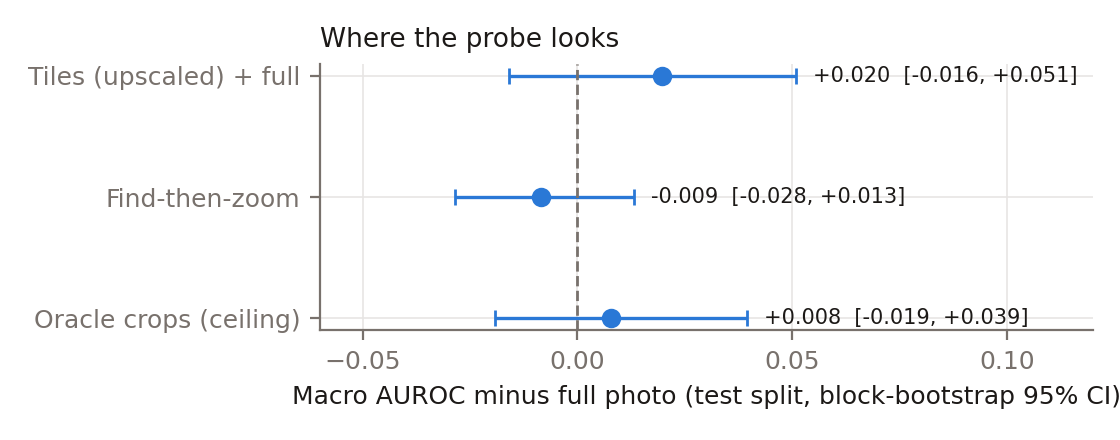
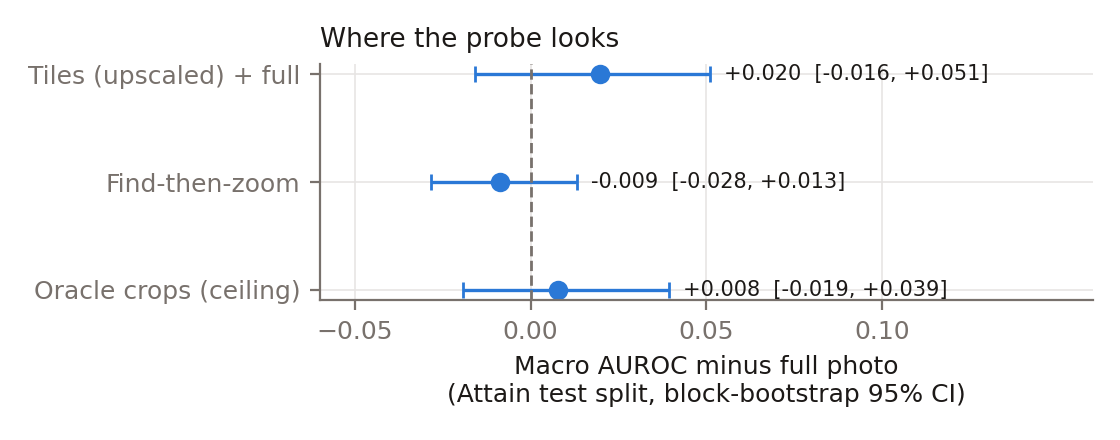
Paper figures in one readable style: redraw 6.8a/b, fix clipped 6.9 label; CLAUDE.md next steps current

diff --git a/scripts/generate_paper_figures.py b/scripts/generate_paper_figures.py
@@ -156,6 +156,62 @@ def fig_first_label():
     save(fig, "fig_6_7_first_label.png")
 
 
+PROBE_CLASSES = ["Linear crack", "Alligator crack", "Pothole", "Raveling", "Weathering",
+                 "Patch and utility cut"]
+
+
+def _short(c: str) -> str:
+    return c.replace(" and utility cut", "")
+
+
+def fig_probe_mcc():
+    """6.8a: per-class MCC, free-form list vs per-type probe, test split, with CI."""
+    T = load("stage2_probe_report.json")["test"]
+    probe = next(k for k in T if k.startswith("probe_"))
+    fig, ax = plt.subplots(figsize=(7.0, 3.4))
+    for off, key, col, lab in ((-0.2, "v0_production", ORANGE, "Free-form list (production)"),
+                               (0.2, probe, BLUE, "Per-type probe")):
+        pts = [T[key]["ci"]["per_class_mcc"][c] for c in PROBE_CLASSES]
+        xs = [i + off for i in range(len(PROBE_CLASSES))]
+        ax.bar(xs, [p["point"] for p in pts], width=0.38, color=col, label=lab)
+        ax.errorbar(xs, [p["point"] for p in pts],
+                    yerr=[[p["point"] - p["lo"] for p in pts], [p["hi"] - p["point"] for p in pts]],
+                    fmt="none", ecolor=INK, capsize=2.5, lw=0.9)
+    ax.axhline(0, color=MUTED, lw=1)
+    ax.set_xticks(range(len(PROBE_CLASSES)), [_short(c) for c in PROBE_CLASSES])
+    ax.set_ylabel("MCC (0 = constant predictor)")
+    ax.set_title("Per-class MCC, Attain test split (95% block-bootstrap CI)", loc="left",
+                 fontsize=9.5, color=INK)
+    ax.legend(fontsize=8, loc="upper center", bbox_to_anchor=(0.5, -0.12), ncol=2)
+    save(fig, "fig_6_8a_probe_mcc.png")
+
+
+def fig_probe_operating_points():
+    """6.8b: recall and false-positive rate per class at the operating point, list vs probe."""
+    T = load("stage2_probe_report.json")["test"]
+    probe = next(k for k in T if k.startswith("probe_"))
+    fig, axes = plt.subplots(1, 2, figsize=(6.8, 2.9), sharey=True)
+    for ax, (metric, title) in zip(axes, (("recall", "Recall (frames with the type)"),
+                                          ("fpr", "False-positive rate (frames without)"))):
+        for i, c in enumerate(PROBE_CLASSES):
+            vals = []
+            for key in ("v0_production", probe):
+                pc = T[key]["per_class"][c]
+                vals.append(pc["recall"] if metric == "recall" else 1 - pc["specificity"])
+            ax.plot(vals, [i, i], color=GRID, lw=2, zorder=1)
+            ax.scatter(vals[0], i, color=ORANGE, s=28, zorder=2, label="Free-form list" if i == 0 else None)
+            ax.scatter(vals[1], i, color=BLUE, s=28, zorder=2, label="Per-type probe" if i == 0 else None)
+        ax.set_xlim(-0.03, 1.03)
+        ax.set_title(title, loc="left", fontsize=9, color=INK)
+        ax.set_xlabel("Share of frames")
+    auc = [T[probe]["per_class"][c]["auroc"] for c in PROBE_CLASSES]
+    axes[0].set_yticks(range(len(PROBE_CLASSES)),
+                       [f"{_short(c)} (AUROC {a:.2f})" for c, a in zip(PROBE_CLASSES, auc)])
+    axes[0].invert_yaxis()
+    axes[0].legend(fontsize=7.5, loc="lower right")
+    save(fig, "fig_6_8b_probe_operating_points.png")
+
+
 def fig_views():
     """6.9: probe macro AUROC change vs the full photo, test split, with CI."""
     v = load("stage2_views_report.json")["test"]
@@ -171,16 +227,17 @@ def fig_views():
     ax.axvline(0, color=MUTED, lw=1, ls="--")
     ax.set_yticks(range(len(rows)), [r[1] for r in rows])
     ax.invert_yaxis()
-    ax.set_xlim(-0.06, 0.12)
+    ax.set_xlim(-0.06, 0.16)
     ax.set_xticks([-0.05, 0, 0.05, 0.10])
-    ax.set_xlabel("Macro AUROC minus full photo (test split, block-bootstrap 95% CI)")
+    ax.set_xlabel("Macro AUROC minus full photo\n(Attain test split, block-bootstrap 95% CI)")
     ax.set_title("Where the probe looks", loc="left", fontsize=9.5, color=INK)
     save(fig, "fig_6_9_views.png")
 
 
 def main() -> int:
     OUT.mkdir(parents=True, exist_ok=True)
-    for f in (fig_confidence_auc, fig_resolution, fig_first_label, fig_views):
+    for f in (fig_confidence_auc, fig_resolution, fig_first_label, fig_probe_mcc,
+              fig_probe_operating_points, fig_views):
         f()
     return 0
 

diff --git a/paper/baseline_evaluation.md b/paper/baseline_evaluation.md
@@ -853,11 +853,11 @@ The pre-registered criterion is met: macro MCC doubles, with an interval that ex
 
 In the continuity terms of §6.3, recall of the classes RDD trained on rises from 46.1% to 90.8% (938 annotated class-instances). Recall of the zero-shot classes both methods can name (ravelling, weathering) rises from 0 of 214 to 93 of 214. Recall figures of this kind must be read with the precision column.
 
-![Figure 6.8a — Per-class MCC, production list vs probe](../eval_results/plots/probe/per_class_mcc.png)
+![Figure 6.8a — Per-class MCC, production list vs probe](../eval_results/plots/paper/fig_6_8a_probe_mcc.png)
 
-![Figure 6.8b — Per-class ROC curves of the probe](../eval_results/plots/probe/roc_per_class.png)
+![Figure 6.8b — Recall and false-positive rate per class, list vs probe](../eval_results/plots/paper/fig_6_8b_probe_operating_points.png)
 
-*Figures 6.8a–b — Per-class MCC of the production list and the probe on the test split (Table 6.8b), and the probe's per-class ROC curves.*
+*Figures 6.8a–b — (a) Per-class MCC of the production list and the probe on the test split, with 95% block-bootstrap intervals (Table 6.8b). (b) The same operating points as recall and false-positive rate, with the probe's AUROC per class. The list almost never names alligator cracking, ravelling, weathering or patching; the probe names them at the cost of more false positives, which MCC weighs. Per-class ROC curves are in `eval_results/plots/probe/roc_per_class.png`.*
 
 **Table 6.8c — Question wording (test split, each variant with its own development-tuned thresholds)**
 
@@ -1307,7 +1307,7 @@ All 341 processed rows were re-classified on 2026-09-26 under the configuration 
 
 ### T7.5 Reproducing the figures
 
-Figures 6.5–6.9 are drawn by `scripts/generate_paper_figures.py` from the stored result files; Figures 6.8a–b by the probe report. No figure requires inference.
+Figures 6.5–6.9 (including 6.8a–b) are drawn by `scripts/generate_paper_figures.py` from the stored result files, in one style. No figure requires inference.
 
 ---
 

diff --git a/CLAUDE.md b/CLAUDE.md
@@ -77,7 +77,7 @@ for everything below.
    config to `configs/stage2_probe.json` and set `STAGE2_MODE=probe` only if it beats the free-form list
    on held-out expert labels.
 3. Re-run `scripts/calibrate_confidence.py` on labelled Bengaluru photos before moving the 0.80 threshold.
-4. Paper: §3.3–3.4, §6.1–6.3, §7.3–7.4 still describe the pre-IRC, adapter-era pipeline — revise before submission.
+4. Paper: revised to P4 on 2026-10-27 (all sections, P1–P4 reading guide at the top). Before submission: proof-read, and add Bengaluru expert-label results to §6.4 once they exist.
 5. Open requests: external VLM hand-off (`vlm_handoff/`, 11 `[CONFIRM]` items for the user; folder-batch
    runner + Stage-1 bypass promised but unbuilt); drive-video ingestion (researched, not built).
 
